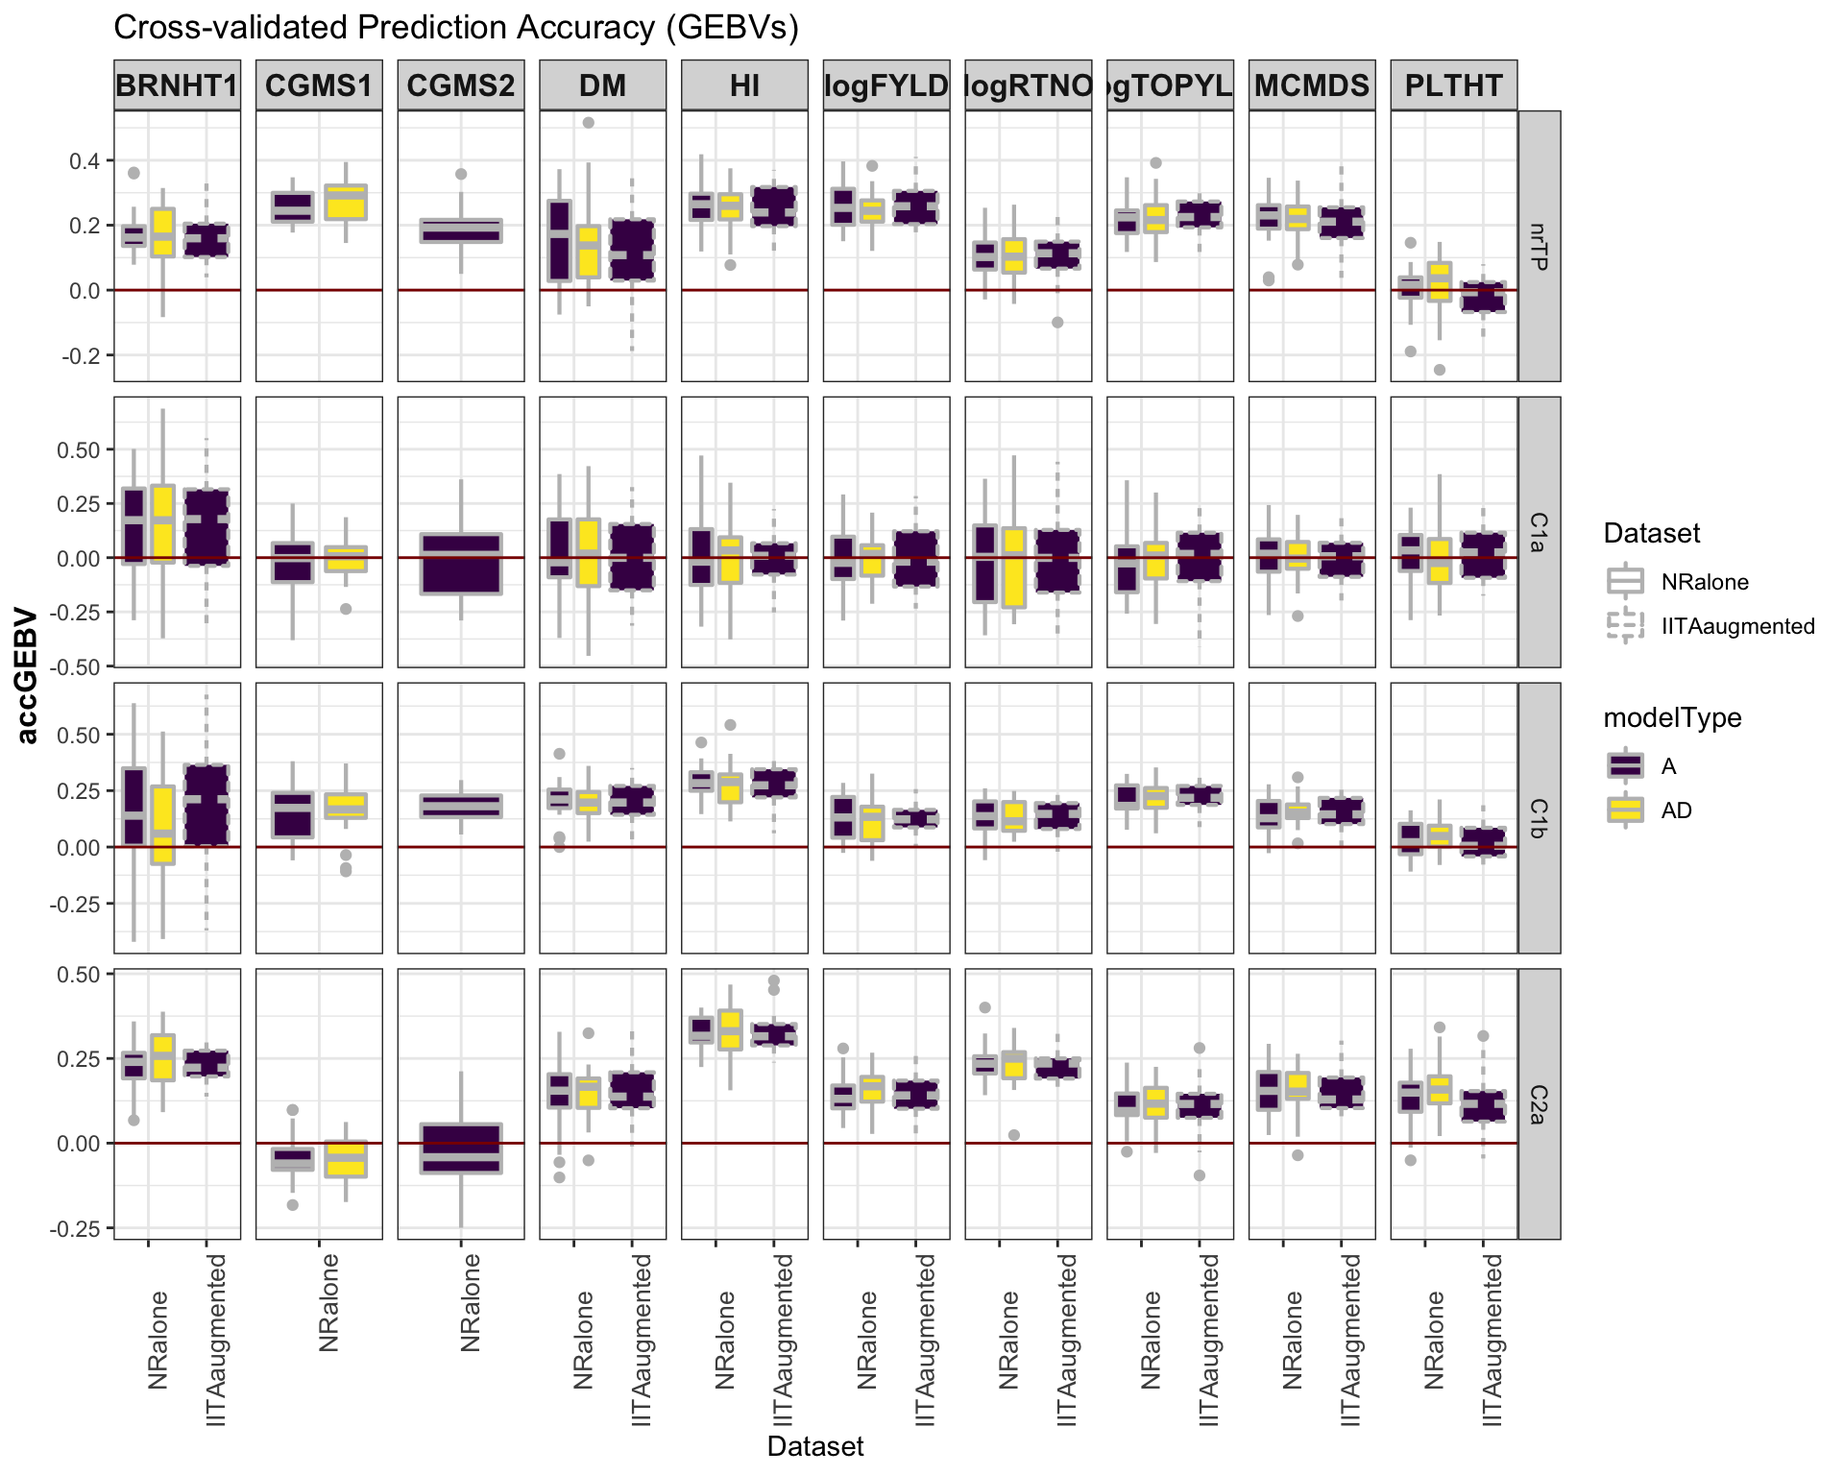
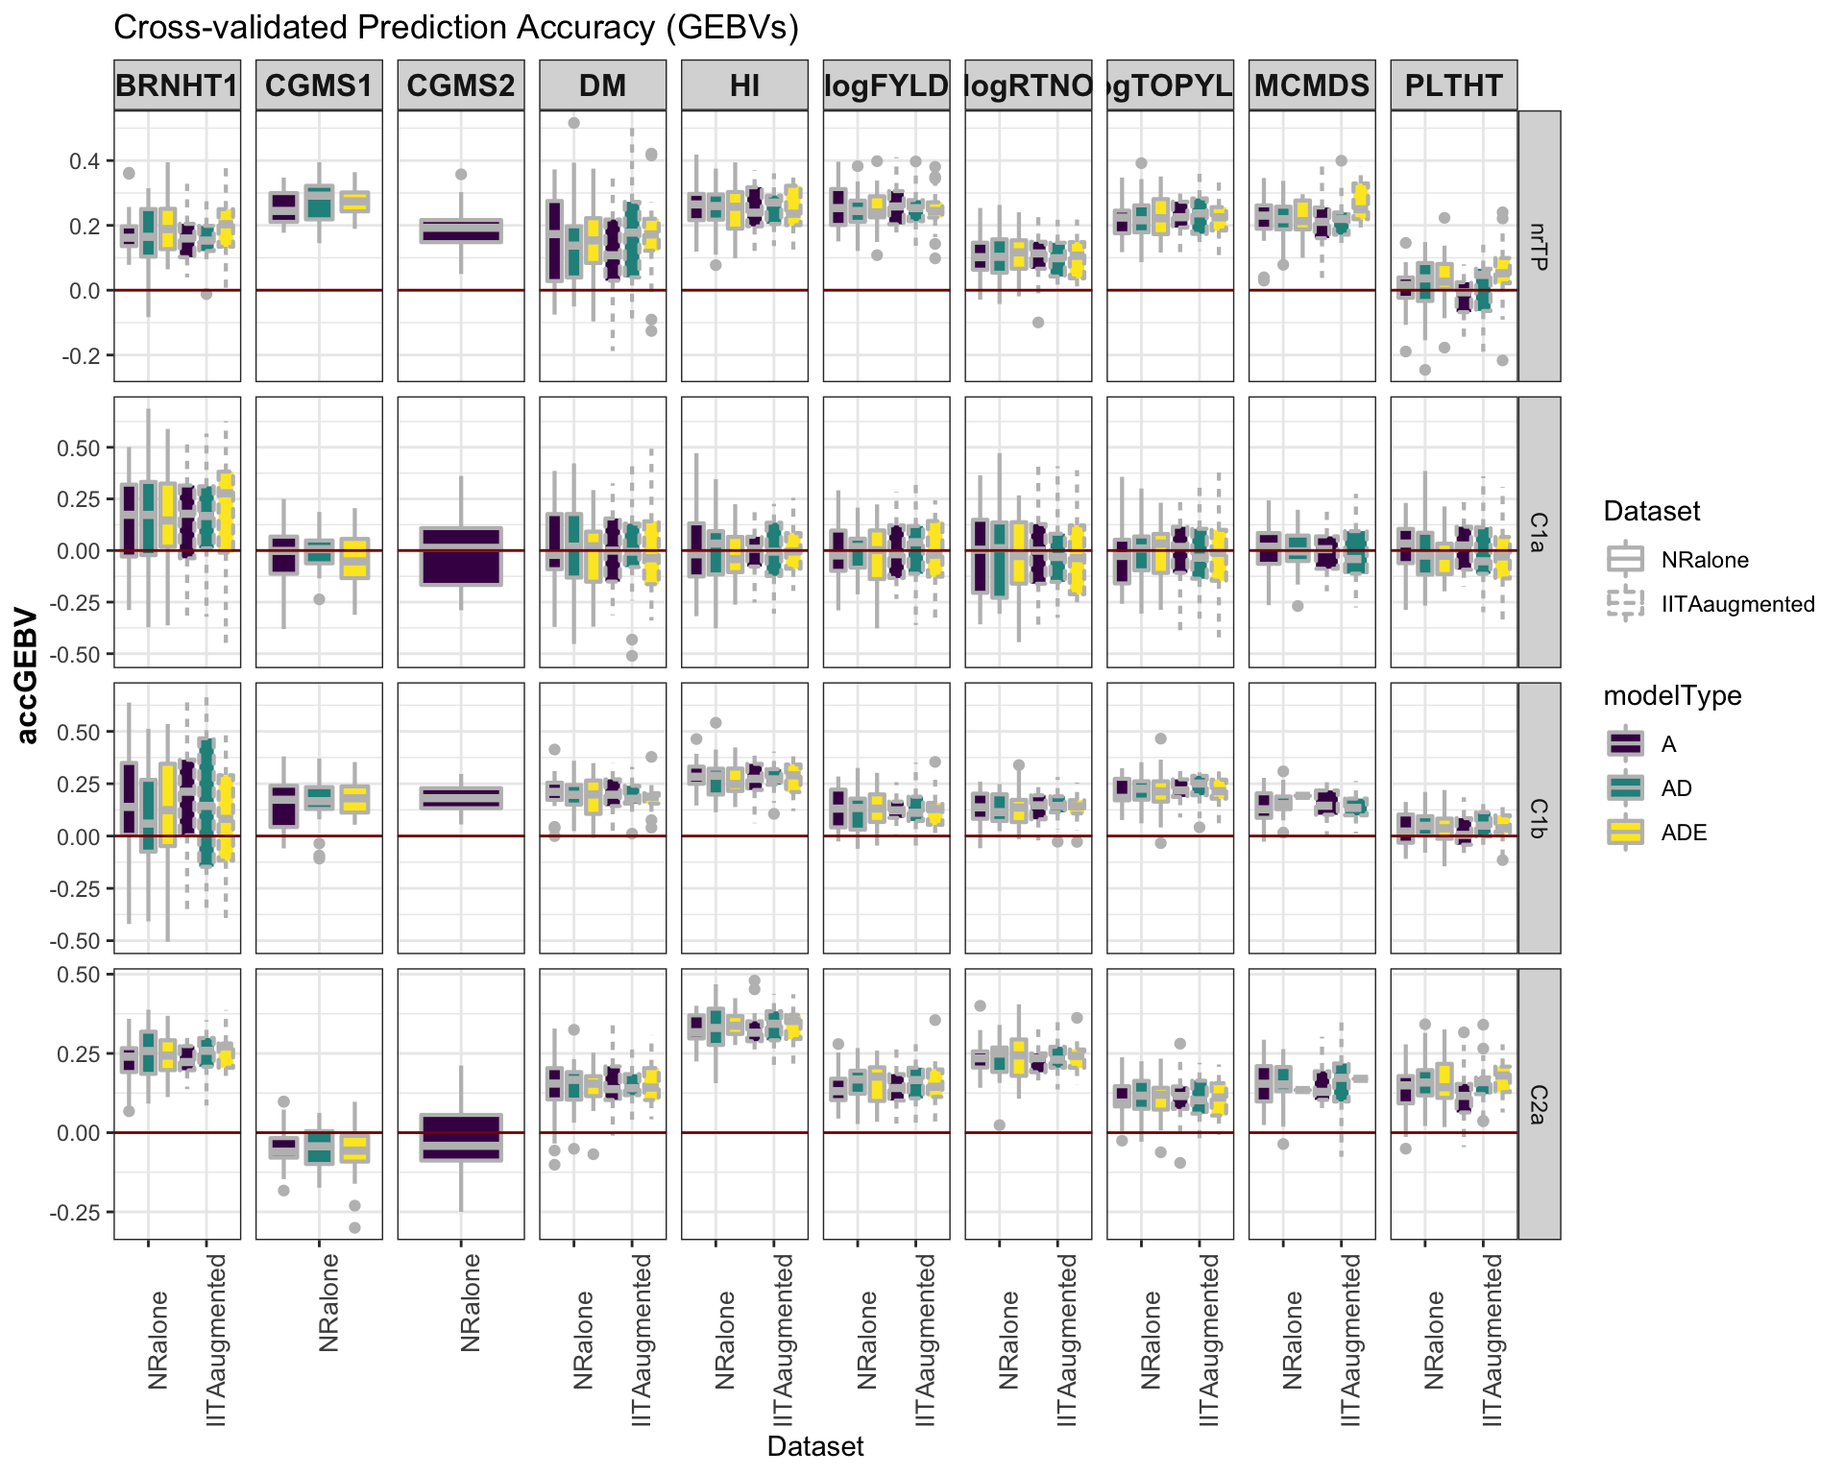
Build site.

diff --git a/docs/04-CrossValidation.html b/docs/04-CrossValidation.html
@@ -590,16 +590,16 @@ This reproducible <a href="http://rmarkdown.rstudio.com">R Markdown</a> analysis
 <div class="panel panel-default">
 <div class="panel-heading">
 <p class="panel-title">
-<a data-toggle="collapse" data-parent="#workflowr-checks" href="#strongRepositoryversionstrong8c45991"> <span class="glyphicon glyphicon-ok text-success" aria-hidden="true"></span> <strong>Repository version:</strong> 8c45991 </a>
+<a data-toggle="collapse" data-parent="#workflowr-checks" href="#strongRepositoryversionstrongahrefhttpsgithubcomwolfemdNRCRI2020GStree9d6de3467ab29818fb139b807320f904ba9db483targetblank9d6de34a"> <span class="glyphicon glyphicon-ok text-success" aria-hidden="true"></span> <strong>Repository version:</strong> <a href="https://github.com/wolfemd/NRCRI_2020GS/tree/9d6de3467ab29818fb139b807320f904ba9db483" target="_blank">9d6de34</a> </a>
 </p>
 </div>
-<div id="strongRepositoryversionstrong8c45991" class="panel-collapse collapse">
[1 lines of base64/hex data omitted]
 <div class="panel-body">
 <p>
 Great! You are using Git for version control. Tracking code development and connecting the code version to the results is critical for reproducibility.
 </p>
 <p>
-The results in this page were generated with repository version 8c45991. See the <em>Past versions</em> tab to see a history of the changes made to the R Markdown and HTML files.
+The results in this page were generated with repository version <a href="https://github.com/wolfemd/NRCRI_2020GS/tree/9d6de3467ab29818fb139b807320f904ba9db483" target="_blank">9d6de34</a>. See the <em>Past versions</em> tab to see a history of the changes made to the R Markdown and HTML files.
 </p>
 <p>
 Note that you need to be careful to ensure that all relevant files for the analysis have been committed to Git prior to generating the results (you can use <code>wflow_publish</code> or <code>wflow_git_commit</code>). workflowr only checks the R Markdown file, but you know if there are other scripts or data files that it depends on. Below is the status of the Git repository when the results were generated:
@@ -615,36 +615,15 @@ Ignored files:
 
 Untracked files:
     Untracked:  NRCRI 2020 GS.gslides
-    Untracked:  data/DatabaseDownload_42120/
-    Untracked:  data/GBSdataMasterList_31818.csv
-    Untracked:  data/IITA_GBStoPhenoMaster_33018.csv
-    Untracked:  data/NRCRI_CleanedTrialData_2020April21.rds
-    Untracked:  data/NRCRI_ExptDesignsDetected_2020April21.rds
-    Untracked:  data/NRCRI_GBStoPhenoMaster_40318.csv
-    Untracked:  data/iita_blupsForCrossVal_72619.rds
-    Untracked:  data/iita_blupsForCrossVal_outliersRemoved_73019.rds
     Untracked:  output/DosageMatrix_NRCRI_SamplesForGP_2020April27.rds
-    Untracked:  output/GEBV_NRCRI_IITAaugmented_ModelADE_2020April27.rds
-    Untracked:  output/GEBV_NRCRI_IITAaugmented_ModelA_2020April27.rds
-    Untracked:  output/GEBV_NRCRI_NRCRIalone_ModelADE_2020April27.rds
-    Untracked:  output/GEBV_NRCRI_NRCRIalone_ModelA_2020April27.rds
-    Untracked:  output/GETGV_NRCRI_IITAaugmented_ModelADE_2020April27.rds
-    Untracked:  output/GETGV_NRCRI_NRCRIalone_ModelADE_2020April27.rds
     Untracked:  output/Kinship_AA_NRCRI_2020April27.rds
     Untracked:  output/Kinship_AD_NRCRI_2020April27.rds
     Untracked:  output/Kinship_A_NRCRI_2020April27.rds
     Untracked:  output/Kinship_DD_NRCRI_2020April27.rds
     Untracked:  output/Kinship_D_NRCRI_2020April27.rds
-    Untracked:  output/NRCRI_CuratedTrials_2020April21.rds
-    Untracked:  output/NRCRI_CuratedTrials_2020April27.rds
-    Untracked:  output/cvresults_AD_nrOnly.rds
-    Untracked:  output/cvresults_A_iitaAugmented.rds
-    Untracked:  output/cvresults_A_nrOnly.rds
-    Untracked:  output/genomicPredictions_ModelADE_NRCRI_2020April27.rds
-    Untracked:  output/genomicPredictions_ModelA_NRCRI_2020April27.rds
-    Untracked:  output/maxNOHAV_byStudy_NRCRI_2020April27.csv
-    Untracked:  output/nrcri_blupsForModelTraining_2020April21.rds
-    Untracked:  output/nrcri_blupsForModelTraining_2020April27.rds
+    Untracked:  output/cvresults_ADE_iitaAugmented.rds
+    Untracked:  output/cvresults_ADE_nrOnly.rds
+    Untracked:  output/cvresults_AD_iitaAugmented.rds
     Untracked:  workflowr_log.R
 
 </code></pre>
@@ -689,7 +668,41 @@ Message
 Rmd
 </td>
 <td>
-8c45991
+<a href="https://github.com/wolfemd/NRCRI_2020GS/blob/9d6de3467ab29818fb139b807320f904ba9db483/analysis/04-CrossValidation.Rmd" target="_blank">9d6de34</a>
+</td>
+<td>
+wolfemd
+</td>
+<td>
+2020-04-28
+</td>
+<td>
+All models done now. Add final cross-validation results.
+</td>
+</tr>
+<tr>
+<td>
+html
+</td>
+<td>
+<a href="https://rawcdn.githack.com/wolfemd/NRCRI_2020GS/f3f6163b319d8633e807c1c45ed2da79e2d747ed/docs/04-CrossValidation.html" target="_blank">f3f6163</a>
+</td>
+<td>
+wolfemd
+</td>
+<td>
+2020-04-28
+</td>
+<td>
+Build site.
+</td>
+</tr>
+<tr>
+<td>
+Rmd
+</td>
+<td>
+<a href="https://github.com/wolfemd/NRCRI_2020GS/blob/8c45991c54b45231c2af415bba3e69e8d6d7c28c/analysis/04-CrossValidation.Rmd" target="_blank">8c45991</a>
 </td>
 <td>
 wolfemd
@@ -1269,14 +1282,17 @@ Publish the first set of analyses and files for NRCRI 2020 GS.
 <h2>PLOT RESULTS</h2>
 <div class="sourceCode" id="cb21"><pre class="sourceCode r"><code class="sourceCode r"><span id="cb21-1"><a href="#cb21-1"></a><span class="kw">rm</span>(<span class="dt">list=</span><span class="kw">ls</span>());<span class="kw">gc</span>()</span></code></pre></div>
 <pre><code>          used (Mb) gc trigger (Mb) limit (Mb) max used (Mb)
-Ncells  629234 33.7    1284425 68.6         NA  1284425 68.6
-Vcells 1188239  9.1    8388608 64.0     102400  2143512 16.4</code></pre>
+Ncells  629600 33.7    1284554 68.7         NA  1284554 68.7
+Vcells 1189386  9.1    8388608 64.0     102400  2145036 16.4</code></pre>
 <div class="sourceCode" id="cb23"><pre class="sourceCode r"><code class="sourceCode r"><span id="cb23-1"><a href="#cb23-1"></a><span class="kw">library</span>(tidyverse); <span class="kw">library</span>(magrittr); </span>
 <span id="cb23-2"><a href="#cb23-2"></a>cv&lt;-<span class="kw">readRDS</span>(here<span class="op">::</span><span class="kw">here</span>(<span class="st">&quot;output&quot;</span>,<span class="st">&quot;cvresults_A_iitaAugmented.rds&quot;</span>)) <span class="op">%&gt;%</span><span class="st"> </span></span>
 <span id="cb23-3"><a href="#cb23-3"></a><span class="st">  </span><span class="kw">bind_rows</span>(<span class="kw">readRDS</span>(here<span class="op">::</span><span class="kw">here</span>(<span class="st">&quot;output&quot;</span>,<span class="st">&quot;cvresults_A_nrOnly.rds&quot;</span>))) <span class="op">%&gt;%</span><span class="st"> </span></span>
 <span id="cb23-4"><a href="#cb23-4"></a><span class="st">  </span><span class="kw">bind_rows</span>(<span class="kw">readRDS</span>(here<span class="op">::</span><span class="kw">here</span>(<span class="st">&quot;output&quot;</span>,<span class="st">&quot;cvresults_AD_nrOnly.rds&quot;</span>))) <span class="op">%&gt;%</span><span class="st"> </span></span>
-<span id="cb23-5"><a href="#cb23-5"></a><span class="st">  </span><span class="kw">unnest</span>(CVresults) <span class="op">%&gt;%</span><span class="st"> </span></span>
-<span id="cb23-6"><a href="#cb23-6"></a><span class="st">  </span><span class="kw">select</span>(<span class="op">-</span>splits)</span></code></pre></div>
+<span id="cb23-5"><a href="#cb23-5"></a><span class="st">  </span><span class="kw">bind_rows</span>(<span class="kw">readRDS</span>(here<span class="op">::</span><span class="kw">here</span>(<span class="st">&quot;output&quot;</span>,<span class="st">&quot;cvresults_AD_iitaAugmented.rds&quot;</span>))) <span class="op">%&gt;%</span><span class="st"> </span></span>
+<span id="cb23-6"><a href="#cb23-6"></a><span class="st">  </span><span class="kw">bind_rows</span>(<span class="kw">readRDS</span>(here<span class="op">::</span><span class="kw">here</span>(<span class="st">&quot;output&quot;</span>,<span class="st">&quot;cvresults_ADE_nrOnly.rds&quot;</span>))) <span class="op">%&gt;%</span><span class="st"> </span></span>
+<span id="cb23-7"><a href="#cb23-7"></a><span class="st">  </span><span class="kw">bind_rows</span>(<span class="kw">readRDS</span>(here<span class="op">::</span><span class="kw">here</span>(<span class="st">&quot;output&quot;</span>,<span class="st">&quot;cvresults_ADE_iitaAugmented.rds&quot;</span>))) <span class="op">%&gt;%</span><span class="st"> </span></span>
+<span id="cb23-8"><a href="#cb23-8"></a><span class="st">  </span><span class="kw">unnest</span>(CVresults) <span class="op">%&gt;%</span><span class="st"> </span></span>
+<span id="cb23-9"><a href="#cb23-9"></a><span class="st">  </span><span class="kw">select</span>(<span class="op">-</span>splits)</span></code></pre></div>
 <div id="accuracy-gebv" class="section level3">
 <h3>Accuracy GEBV</h3>
 <div class="sourceCode" id="cb24"><pre class="sourceCode r"><code class="sourceCode r"><span id="cb24-1"><a href="#cb24-1"></a><span class="co">#library(viridis)</span></span>
@@ -1284,7 +1300,7 @@ Vcells 1188239  9.1    8388608 64.0     102400  2143512 16.4</code></pre>
 <span id="cb24-3"><a href="#cb24-3"></a>cv <span class="op">%&gt;%</span><span class="st"> </span></span>
 <span id="cb24-4"><a href="#cb24-4"></a><span class="st">  </span><span class="kw">mutate</span>(<span class="dt">GroupName=</span><span class="kw">factor</span>(GroupName,<span class="dt">levels=</span><span class="kw">c</span>(<span class="st">&quot;nrTP&quot;</span>,<span class="st">&quot;C1a&quot;</span>,<span class="st">&quot;C1b&quot;</span>,<span class="st">&quot;C2a&quot;</span>)),</span>
 <span id="cb24-5"><a href="#cb24-5"></a>         <span class="dt">Dataset=</span><span class="kw">factor</span>(Dataset,<span class="dt">levels=</span><span class="kw">c</span>(<span class="st">&quot;NRalone&quot;</span>,<span class="st">&quot;IITAaugmented&quot;</span>)),</span>
-<span id="cb24-6"><a href="#cb24-6"></a>         <span class="dt">modelType=</span><span class="kw">factor</span>(modelType,<span class="dt">levels=</span><span class="kw">c</span>(<span class="st">&quot;A&quot;</span>,<span class="st">&quot;AD&quot;</span>))) <span class="op">%&gt;%</span><span class="st"> </span></span>
+<span id="cb24-6"><a href="#cb24-6"></a>         <span class="dt">modelType=</span><span class="kw">factor</span>(modelType,<span class="dt">levels=</span><span class="kw">c</span>(<span class="st">&quot;A&quot;</span>,<span class="st">&quot;AD&quot;</span>,<span class="st">&quot;ADE&quot;</span>))) <span class="op">%&gt;%</span><span class="st"> </span></span>
 <span id="cb24-7"><a href="#cb24-7"></a><span class="st">  </span><span class="kw">ggplot</span>(.,<span class="kw">aes</span>(<span class="dt">x=</span>Dataset,<span class="dt">y=</span>accGEBV,<span class="dt">fill=</span>modelType,<span class="dt">linetype=</span>Dataset)) <span class="op">+</span><span class="st"> </span></span>
 <span id="cb24-8"><a href="#cb24-8"></a><span class="st">  </span><span class="kw">geom_boxplot</span>(<span class="dt">position =</span> <span class="kw">position_dodge</span>(<span class="dv">1</span>),<span class="dt">width=</span><span class="fl">0.75</span>,<span class="dt">color=</span><span class="st">&#39;gray&#39;</span>,<span class="dt">size=</span><span class="fl">0.75</span>) <span class="op">+</span><span class="st"> </span></span>
 <span id="cb24-9"><a href="#cb24-9"></a><span class="st">  </span><span class="kw">facet_grid</span>(GroupName<span class="op">~</span>Trait, <span class="dt">scales=</span><span class="st">&#39;free&#39;</span>) <span class="op">+</span><span class="st"> </span></span>
@@ -1296,13 +1312,53 @@ Vcells 1188239  9.1    8388608 64.0     102400  2143512 16.4</code></pre>
 <span id="cb24-15"><a href="#cb24-15"></a><span class="st">  </span><span class="co">#scale_color_manual(values = c(&quot;gray&quot;,&quot;gold&quot;)) + </span></span>
 <span id="cb24-16"><a href="#cb24-16"></a><span class="st">  </span><span class="kw">labs</span>(<span class="dt">title=</span><span class="st">&quot;Cross-validated Prediction Accuracy (GEBVs)&quot;</span>) <span class="op">+</span></span>
 <span id="cb24-17"><a href="#cb24-17"></a><span class="st">  </span><span class="kw">geom_hline</span>(<span class="dt">yintercept =</span> <span class="dv">0</span>, <span class="dt">color=</span><span class="st">&#39;darkred&#39;</span>)</span></code></pre></div>
-<p><img src="figure/04-CrossValidation.Rmd/unnamed-chunk-15-1.png" width="960" style="display: block; margin: auto;" /> ### Accuracy GETGV</p>
+<p><img src="figure/04-CrossValidation.Rmd/unnamed-chunk-15-1.png" width="960" style="display: block; margin: auto;" /></p>
+<p>
+<button type="button" class="btn btn-default btn-xs btn-workflowr btn-workflowr-fig" data-toggle="collapse" data-target="#fig-unnamed-chunk-15-1">
+Past versions of unnamed-chunk-15-1.png
+</button>
+</p>
+<div id="fig-unnamed-chunk-15-1" class="collapse">
+<div class="table-responsive">
+<table class="table table-condensed table-hover">
+<thead>
+<tr>
+<th>
+Version
+</th>
+<th>
+Author
+</th>
+<th>
+Date
+</th>
+</tr>
+</thead>
+<tbody>
+<tr>
+<td>
+<a href="https://github.com/wolfemd/NRCRI_2020GS/blob/f3f6163b319d8633e807c1c45ed2da79e2d747ed/docs/figure/04-CrossValidation.Rmd/unnamed-chunk-15-1.png" target="_blank">f3f6163</a>
+</td>
+<td>
+wolfemd
+</td>
+<td>
+2020-04-28
+</td>
+</tr>
+</tbody>
+</table>
+</div>
+</div>
+</div>
+<div id="accuracy-getgv" class="section level3">
+<h3>Accuracy GETGV</h3>
 <div class="sourceCode" id="cb25"><pre class="sourceCode r"><code class="sourceCode r"><span id="cb25-1"><a href="#cb25-1"></a><span class="co">#library(viridis)</span></span>
 <span id="cb25-2"><a href="#cb25-2"></a><span class="kw">library</span>(tidyverse); <span class="kw">library</span>(magrittr); </span>
 <span id="cb25-3"><a href="#cb25-3"></a>cv <span class="op">%&gt;%</span><span class="st"> </span></span>
 <span id="cb25-4"><a href="#cb25-4"></a><span class="st">  </span><span class="kw">mutate</span>(<span class="dt">GroupName=</span><span class="kw">factor</span>(GroupName,<span class="dt">levels=</span><span class="kw">c</span>(<span class="st">&quot;nrTP&quot;</span>,<span class="st">&quot;C1a&quot;</span>,<span class="st">&quot;C1b&quot;</span>,<span class="st">&quot;C2a&quot;</span>)),</span>
 <span id="cb25-5"><a href="#cb25-5"></a>         <span class="dt">Dataset=</span><span class="kw">factor</span>(Dataset,<span class="dt">levels=</span><span class="kw">c</span>(<span class="st">&quot;NRalone&quot;</span>,<span class="st">&quot;IITAaugmented&quot;</span>)),</span>
-<span id="cb25-6"><a href="#cb25-6"></a>         <span class="dt">modelType=</span><span class="kw">factor</span>(modelType,<span class="dt">levels=</span><span class="kw">c</span>(<span class="st">&quot;A&quot;</span>,<span class="st">&quot;AD&quot;</span>))) <span class="op">%&gt;%</span><span class="st"> </span></span>
+<span id="cb25-6"><a href="#cb25-6"></a>         <span class="dt">modelType=</span><span class="kw">factor</span>(modelType,<span class="dt">levels=</span><span class="kw">c</span>(<span class="st">&quot;A&quot;</span>,<span class="st">&quot;AD&quot;</span>,<span class="st">&quot;ADE&quot;</span>))) <span class="op">%&gt;%</span><span class="st"> </span></span>
 <span id="cb25-7"><a href="#cb25-7"></a><span class="st">  </span><span class="kw">ggplot</span>(.,<span class="kw">aes</span>(<span class="dt">x=</span>Dataset,<span class="dt">y=</span>accGETGV,<span class="dt">fill=</span>modelType,<span class="dt">linetype=</span>Dataset)) <span class="op">+</span><span class="st"> </span></span>
 <span id="cb25-8"><a href="#cb25-8"></a><span class="st">  </span><span class="kw">geom_boxplot</span>(<span class="dt">position =</span> <span class="kw">position_dodge</span>(<span class="dv">1</span>),<span class="dt">width=</span><span class="fl">0.75</span>,<span class="dt">color=</span><span class="st">&#39;gray&#39;</span>,<span class="dt">size=</span><span class="fl">0.75</span>) <span class="op">+</span><span class="st"> </span></span>
 <span id="cb25-9"><a href="#cb25-9"></a><span class="st">  </span><span class="kw">facet_grid</span>(GroupName<span class="op">~</span>Trait, <span class="dt">scales=</span><span class="st">&#39;free&#39;</span>) <span class="op">+</span><span class="st"> </span></span>
@@ -1315,6 +1371,43 @@ Vcells 1188239  9.1    8388608 64.0     102400  2143512 16.4</code></pre>
 <span id="cb25-16"><a href="#cb25-16"></a><span class="st">  </span><span class="kw">labs</span>(<span class="dt">title=</span><span class="st">&quot;Cross-validated Prediction Accuracy (GETGVs)&quot;</span>) <span class="op">+</span></span>
 <span id="cb25-17"><a href="#cb25-17"></a><span class="st">  </span><span class="kw">geom_hline</span>(<span class="dt">yintercept =</span> <span class="dv">0</span>, <span class="dt">color=</span><span class="st">&#39;darkred&#39;</span>)</span></code></pre></div>
 <p><img src="figure/04-CrossValidation.Rmd/unnamed-chunk-16-1.png" width="960" style="display: block; margin: auto;" /></p>
+<p>
+<button type="button" class="btn btn-default btn-xs btn-workflowr btn-workflowr-fig" data-toggle="collapse" data-target="#fig-unnamed-chunk-16-1">
+Past versions of unnamed-chunk-16-1.png
+</button>
+</p>
+<div id="fig-unnamed-chunk-16-1" class="collapse">
+<div class="table-responsive">
+<table class="table table-condensed table-hover">
+<thead>
+<tr>
+<th>
+Version
+</th>
+<th>
+Author
+</th>
+<th>
+Date
+</th>
+</tr>
+</thead>
+<tbody>
+<tr>
+<td>
+<a href="https://github.com/wolfemd/NRCRI_2020GS/blob/f3f6163b319d8633e807c1c45ed2da79e2d747ed/docs/figure/04-CrossValidation.Rmd/unnamed-chunk-16-1.png" target="_blank">f3f6163</a>
+</td>
+<td>
+wolfemd
+</td>
+<td>
+2020-04-28
+</td>
+</tr>
+</tbody>
+</table>
+</div>
+</div>
 </div>
 </div>
 </div>
